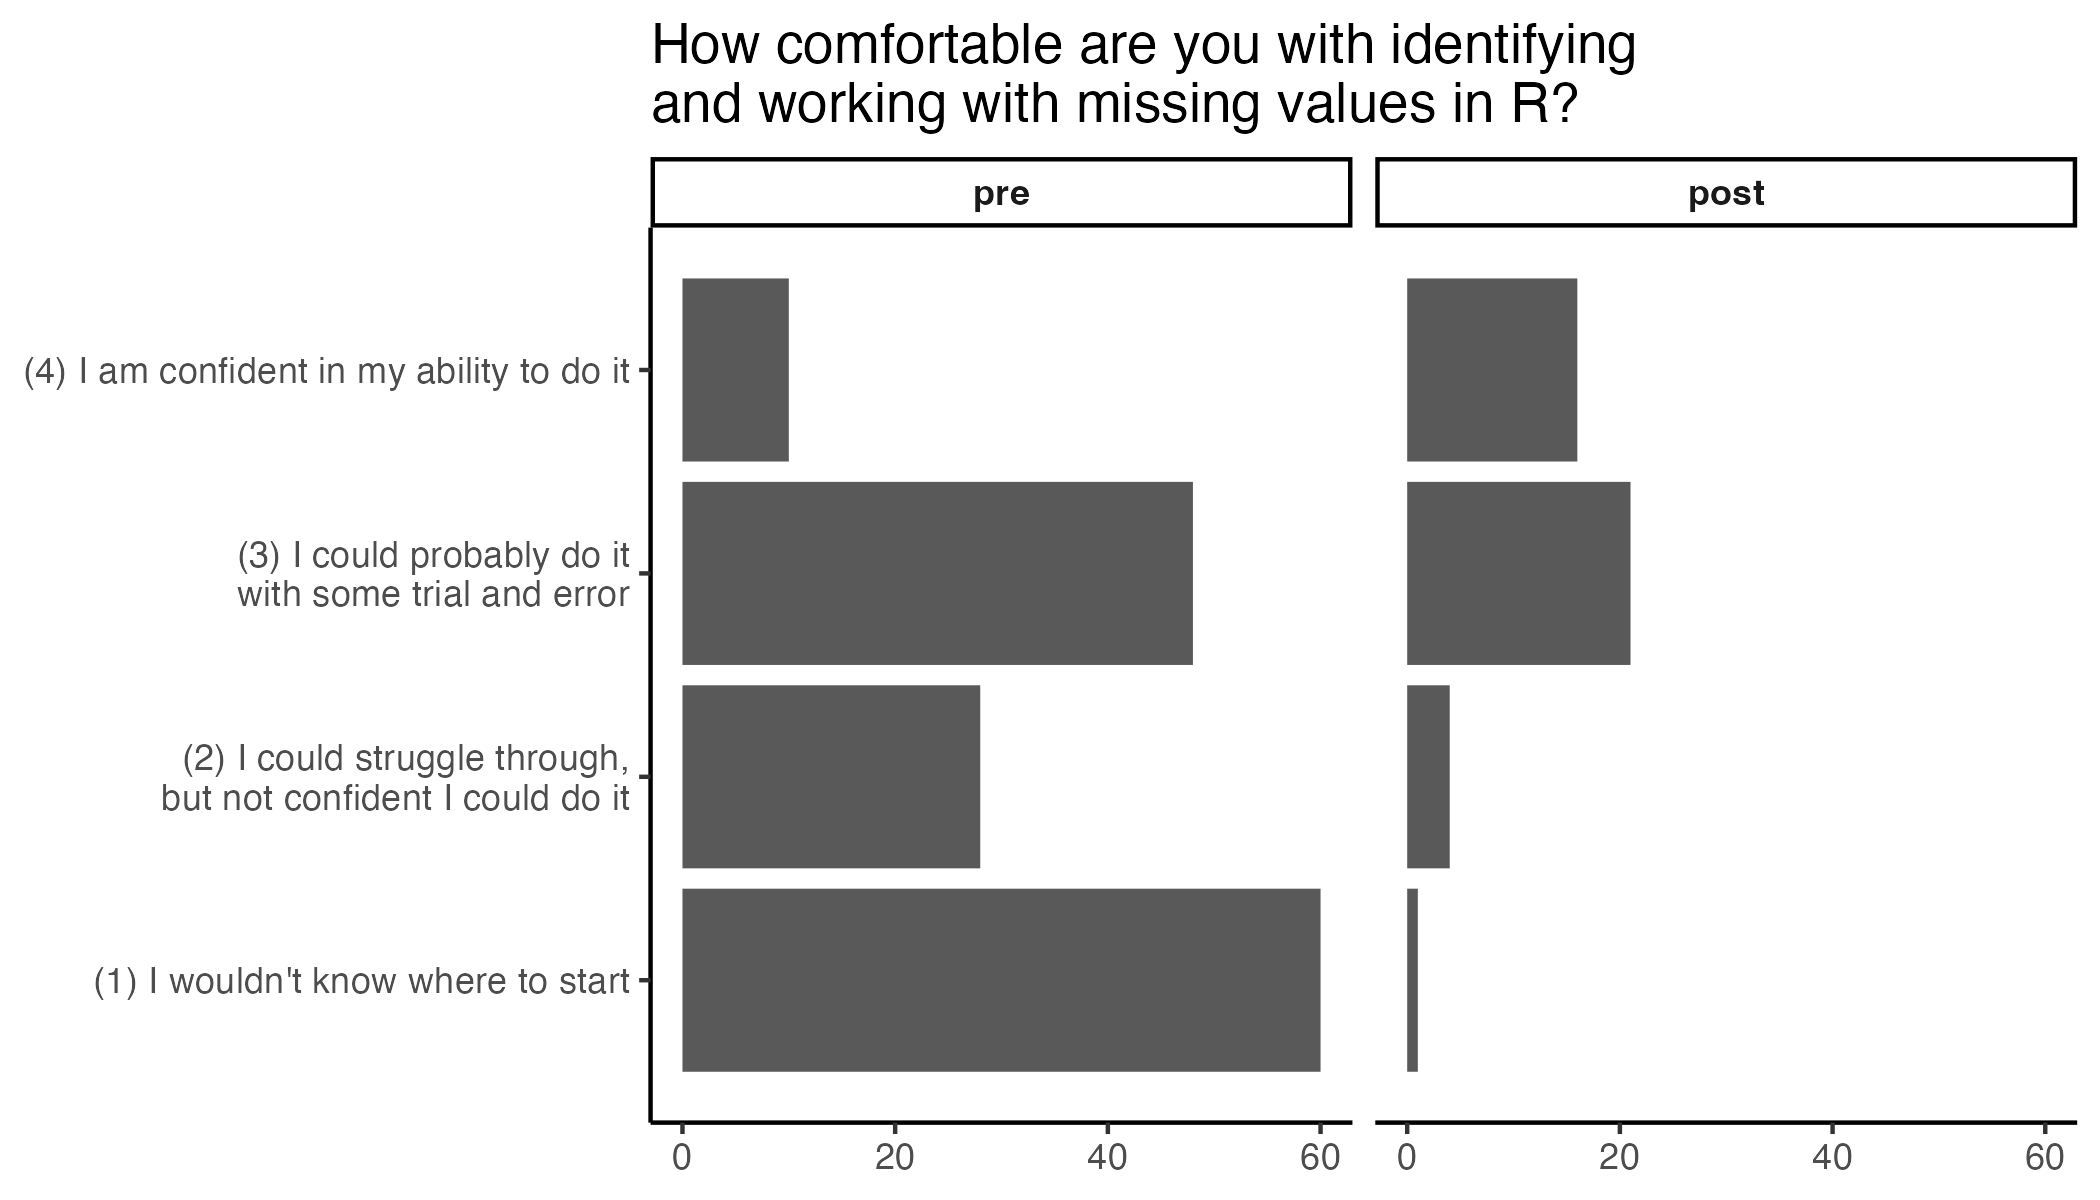
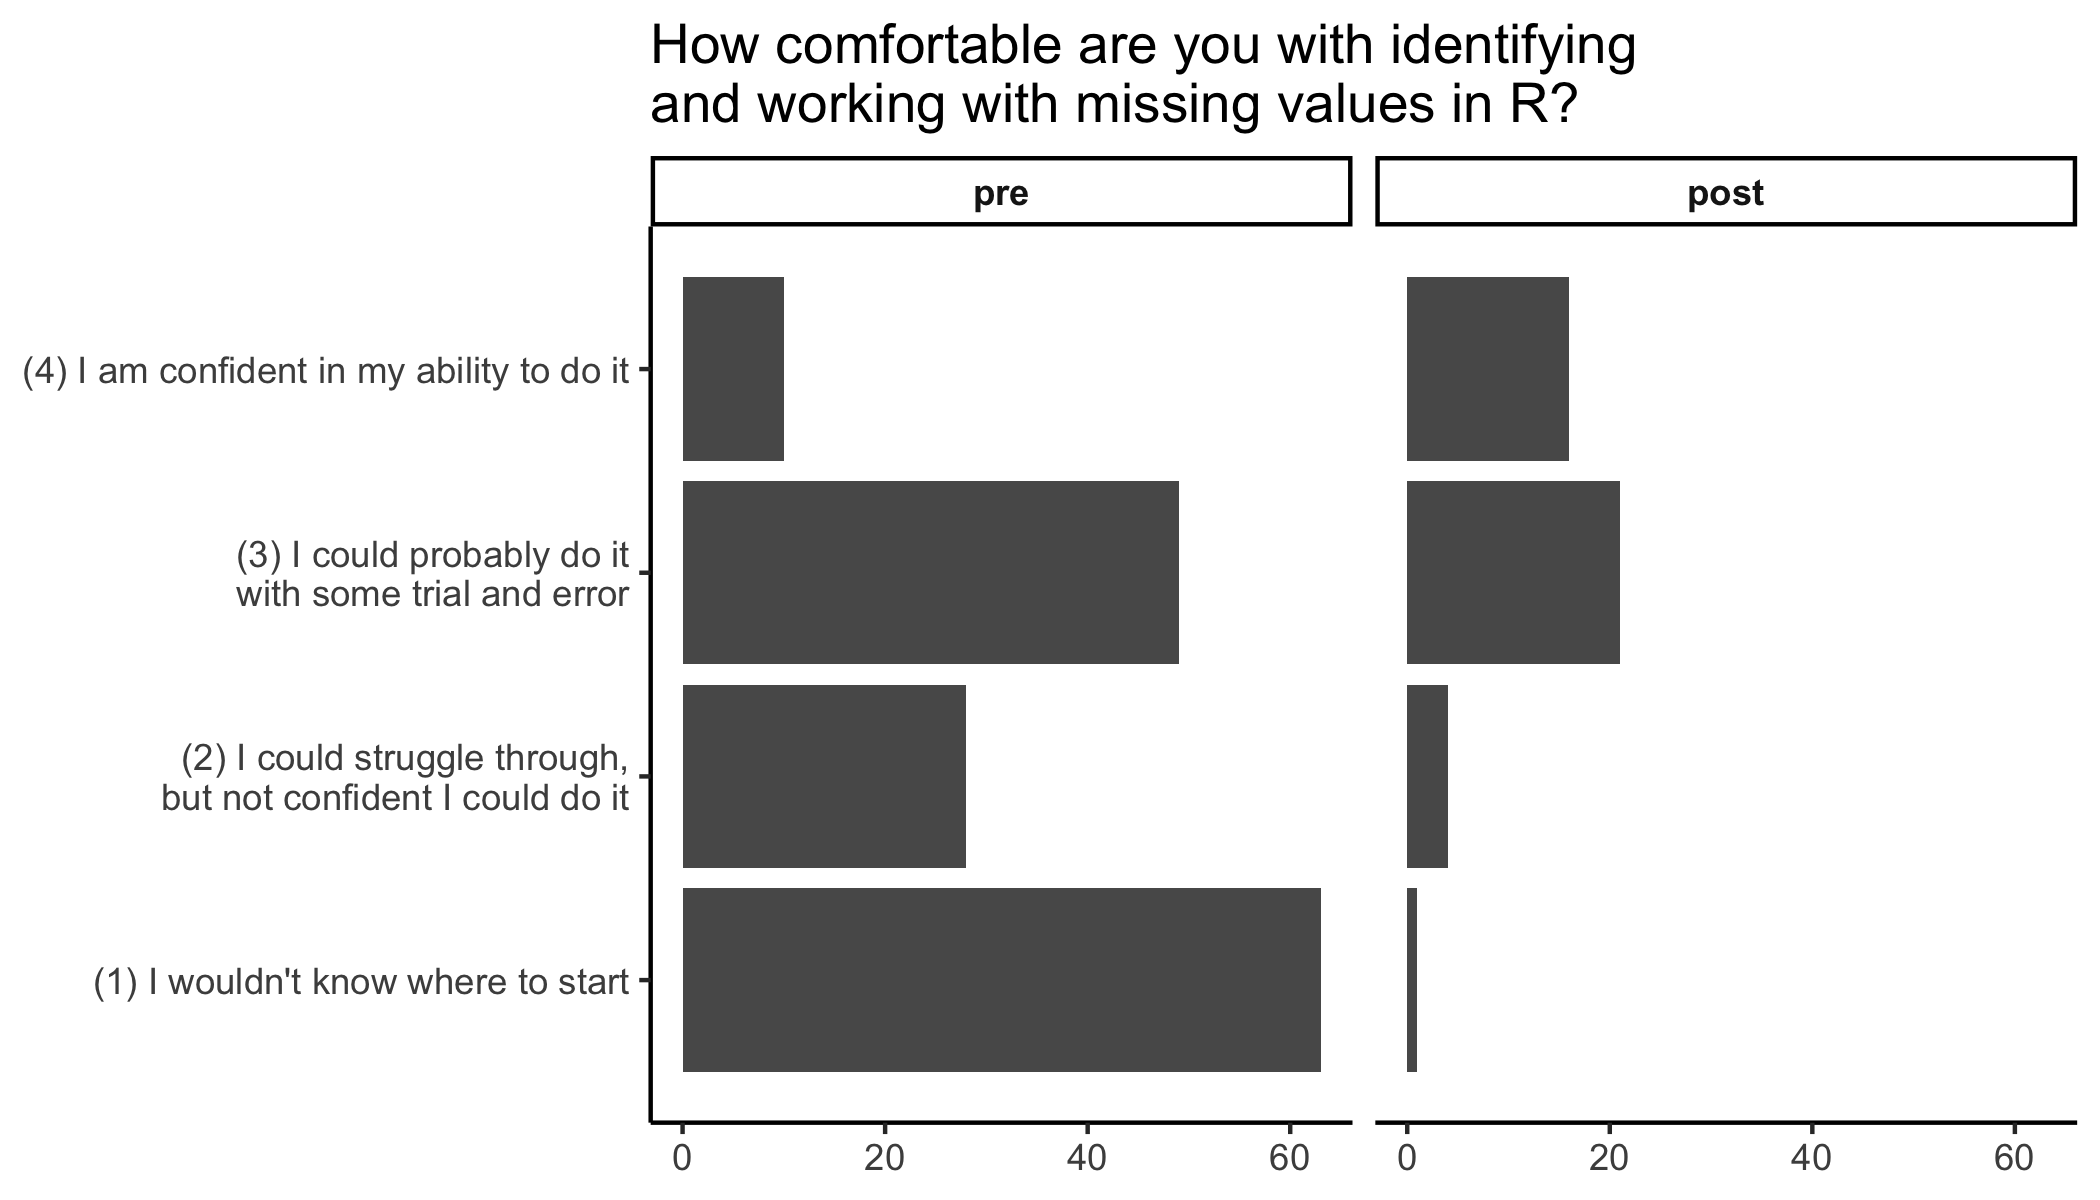
Update with fresh data

diff --git a/for_organizers/analysis.md b/for_organizers/analysis.md
@@ -1,7 +1,7 @@
 R102 Workshop Analysis
 ================
 Rose Hartman
-2024-04-17
+2024-05-02
 
 ``` r
 library(ggplot2)
@@ -51,9 +51,12 @@ r102 <- r102_raw |>
                 jun_followup_date = lubridate::ymd_hms(data_types_and_viz_follow_up_timestamp))
 ```
 
-    ## Warning: 6 failed to parse.
-
-    ## Warning: 1 failed to parse.
+    ## Warning: There were 2 warnings in `dplyr::mutate()`.
+    ## The first warning was:
+    ## ℹ In argument: `signup_date = lubridate::ymd_hms(form_1_timestamp)`.
+    ## Caused by warning:
+    ## !  8 failed to parse.
+    ## ℹ Run `dplyr::last_dplyr_warnings()` to see the 1 remaining warning.
 
 ``` r
 plot_data <- r102 |> 
@@ -134,7 +137,7 @@ eval_jun = sum(r102$data_types_and_viz_follow_up_complete == 2) > 0
 
 ## Missing Values in R
 
-152 signups.
+157 signups.
 
 48 responses on post-workshop survey.
 
@@ -145,13 +148,22 @@ p <- plot_data |>
   dplyr::filter(topic == "missing_values") |> 
   ability_plot() +
   labs(title = "How comfortable are you with identifying\nand working with missing values in R?")
+```
 
+    ## Warning: The `size` argument of `element_rect()` is deprecated as of ggplot2 3.4.0.
+    ## ℹ Please use the `linewidth` argument instead.
+    ## This warning is displayed once every 8 hours.
+    ## Call `lifecycle::last_lifecycle_warnings()` to see where this warning was
+    ## generated.
+
+``` r
 ggsave("prepost_03_all.png", 
        plot = p,
        height = 4, width = 7, units = "in")
 ```
 
-    ## Warning: Removed 256 rows containing non-finite values (stat_count).
+    ## Warning: Removed 314 rows containing non-finite outside the scale range
+    ## (`stat_count()`).
 
 ![](prepost_03_all.png)
 
@@ -187,9 +199,9 @@ in R session, with respondents reporting higher ability afterward, t(40)
 
 ## Summary Stats
 
-205 signups.
+214 signups.
 
-18 responses on post-workshop survey.
+37 responses on post-workshop survey.
 
 All available responses at pre and post:
 
@@ -204,7 +216,8 @@ ggsave("prepost_04_all.png",
        height = 4, width = 7, units = "in")
 ```
 
-    ## Warning: Removed 234 rows containing non-finite values (stat_count).
+    ## Warning: Removed 275 rows containing non-finite outside the scale range
+    ## (`stat_count()`).
 
 ![](prepost_04_all.png)
 
@@ -236,11 +249,11 @@ apr_test <- t.test(r102$create_table_2, r102$create_table, paired = TRUE)
 
 We saw significant improvement from pre to post after the Summary
 Statistics in R session, with respondents reporting higher ability
-afterward, t(14) = 2.82, p = .014.
+afterward, t(27) = 3.81, p \< .001.
 
 ## Tidyr
 
-183 signups.
+214 signups.
 
 0 responses on post-workshop survey.
 
@@ -287,7 +300,7 @@ with tidyr session, with respondents reporting higher ability afterward,
 
 ## Data types and viz
 
-190 signups.
+218 signups.
 
 0 responses on post-workshop survey.
 
